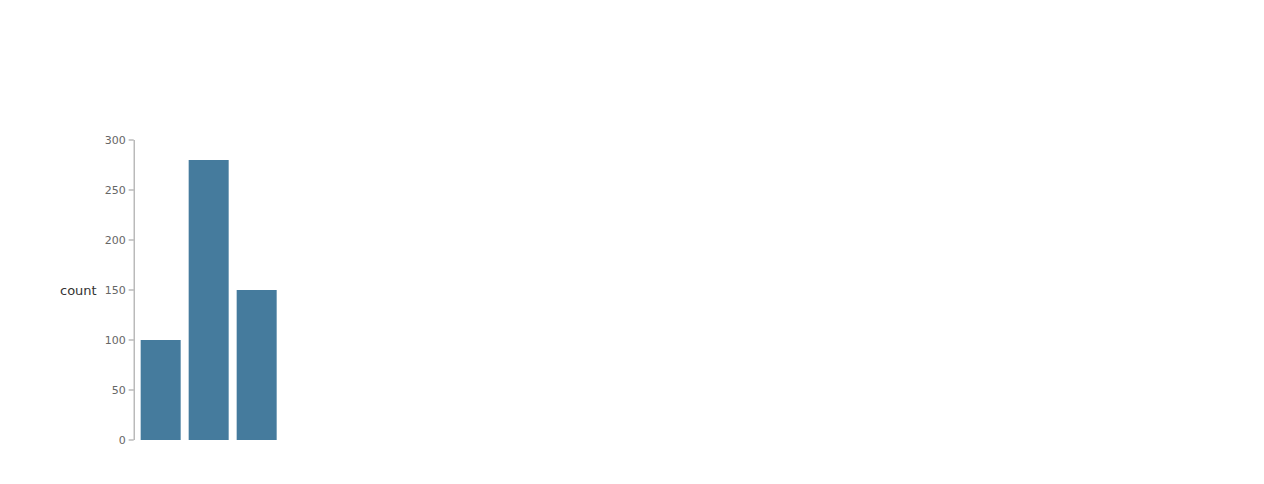
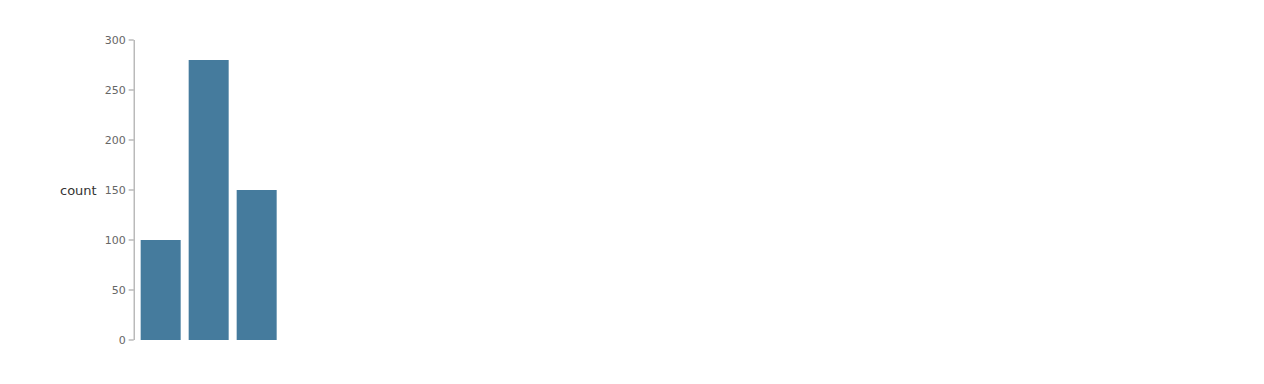
Accept 1 visual diff(s)

diff --git a/dom/low-level-syntax/axes--continuous-yaxis.html b/dom/low-level-syntax/axes--continuous-yaxis.html
@@ -1,9 +1,9 @@
-<svg height="480" width="480" xmlns="http://www.w3.org/2000/svg"><g transform="scale(1, -1) translate(40, -440)"><g transform="translate(0, 0) scale(1, 1)"><g transform="translate(80.6724, 0)"><rect fill="#457b9d" height="100" opacity="1" rx="0" ry="0" stroke="#457b9d" stroke-width="0" transform="scale(1, -1)" width="40" x="0" y="-100"></rect><rect fill="#457b9d" height="280" opacity="1" rx="0" ry="0" stroke="#457b9d" stroke-width="0" transform="scale(1, -1)" width="40" x="48" y="-280"></rect><rect fill="#457b9d" height="150" opacity="1" rx="0" ry="0" stroke="#457b9d" stroke-width="0" transform="scale(1, -1)" width="40" x="96" y="-150"></rect></g><rect fill="#999" height="300" opacity="1" rx="0" ry="0" stroke="#999" stroke-width="0" transform="scale(1, -1)" width="1" x="73.6724" y="-300"></rect><g transform="translate(58.6738, -200)"><text dominant-baseline="auto" fill="#666" font-family="system-ui, sans-serif" font-size="11" stroke-width="0" text-anchor="start" transform="scale(1, -1)" x="0" y="-196.5">0
-</text><rect fill="#999" height="1" opacity="1" rx="0" ry="0" stroke="#999" stroke-width="0" transform="scale(1, -1)" width="5" x="9.9985" y="-200.5"></rect></g><g transform="translate(51.6753, -150)"><text dominant-baseline="auto" fill="#666" font-family="system-ui, sans-serif" font-size="11" stroke-width="0" text-anchor="start" transform="scale(1, -1)" x="0" y="-196.5">50
-</text><rect fill="#999" height="1" opacity="1" rx="0" ry="0" stroke="#999" stroke-width="0" transform="scale(1, -1)" width="5" x="16.9971" y="-200.5"></rect></g><g transform="translate(44.6768, -100)"><text dominant-baseline="auto" fill="#666" font-family="system-ui, sans-serif" font-size="11" stroke-width="0" text-anchor="start" transform="scale(1, -1)" x="0" y="-196.5">100
-</text><rect fill="#999" height="1" opacity="1" rx="0" ry="0" stroke="#999" stroke-width="0" transform="scale(1, -1)" width="5" x="23.9956" y="-200.5"></rect></g><g transform="translate(44.6768, -50)"><text dominant-baseline="auto" fill="#666" font-family="system-ui, sans-serif" font-size="11" stroke-width="0" text-anchor="start" transform="scale(1, -1)" x="0" y="-196.5">150
-</text><rect fill="#999" height="1" opacity="1" rx="0" ry="0" stroke="#999" stroke-width="0" transform="scale(1, -1)" width="5" x="23.9956" y="-200.5"></rect></g><g transform="translate(44.6768, 0)"><text dominant-baseline="auto" fill="#666" font-family="system-ui, sans-serif" font-size="11" stroke-width="0" text-anchor="start" transform="scale(1, -1)" x="0" y="-196.5">200
-</text><rect fill="#999" height="1" opacity="1" rx="0" ry="0" stroke="#999" stroke-width="0" transform="scale(1, -1)" width="5" x="23.9956" y="-200.5"></rect></g><g transform="translate(44.6768, 50)"><text dominant-baseline="auto" fill="#666" font-family="system-ui, sans-serif" font-size="11" stroke-width="0" text-anchor="start" transform="scale(1, -1)" x="0" y="-196.5">250
-</text><rect fill="#999" height="1" opacity="1" rx="0" ry="0" stroke="#999" stroke-width="0" transform="scale(1, -1)" width="5" x="23.9956" y="-200.5"></rect></g><g transform="translate(44.6768, 100)"><text dominant-baseline="auto" fill="#666" font-family="system-ui, sans-serif" font-size="11" stroke-width="0" text-anchor="start" transform="scale(1, -1)" x="0" y="-196.5">300
-</text><rect fill="#999" height="1" opacity="1" rx="0" ry="0" stroke="#999" stroke-width="0" transform="scale(1, -1)" width="5" x="23.9956" y="-200.5"></rect></g><text dominant-baseline="auto" fill="#333" font-family="system-ui, sans-serif" font-size="13" stroke-width="0" text-anchor="start" transform="scale(1, -1)" x="0" y="-145.5">count
+<svg height="380" width="480" xmlns="http://www.w3.org/2000/svg"><g transform="scale(1, -1) translate(40, -340)"><g transform="translate(0, 0) scale(1, 1)"><g transform="translate(80.6724, 0)"><rect fill="#457b9d" height="100" opacity="1" rx="0" ry="0" stroke="#457b9d" stroke-width="0" transform="scale(1, -1)" width="40" x="0" y="-100"></rect><rect fill="#457b9d" height="280" opacity="1" rx="0" ry="0" stroke="#457b9d" stroke-width="0" transform="scale(1, -1)" width="40" x="48" y="-280"></rect><rect fill="#457b9d" height="150" opacity="1" rx="0" ry="0" stroke="#457b9d" stroke-width="0" transform="scale(1, -1)" width="40" x="96" y="-150"></rect></g><rect fill="#999" height="300" opacity="1" rx="0" ry="0" stroke="#999" stroke-width="0" transform="scale(1, -1)" width="1" x="73.6724" y="-300"></rect><g transform="translate(58.6738, -150)"><text dominant-baseline="auto" fill="#666" font-family="system-ui, sans-serif" font-size="11" stroke-width="0" text-anchor="start" transform="scale(1, -1)" x="0" y="-146.5">0
+</text><rect fill="#999" height="1" opacity="1" rx="0" ry="0" stroke="#999" stroke-width="0" transform="scale(1, -1)" width="5" x="9.9985" y="-150.5"></rect></g><g transform="translate(51.6753, -100)"><text dominant-baseline="auto" fill="#666" font-family="system-ui, sans-serif" font-size="11" stroke-width="0" text-anchor="start" transform="scale(1, -1)" x="0" y="-146.5">50
+</text><rect fill="#999" height="1" opacity="1" rx="0" ry="0" stroke="#999" stroke-width="0" transform="scale(1, -1)" width="5" x="16.9971" y="-150.5"></rect></g><g transform="translate(44.6768, -50)"><text dominant-baseline="auto" fill="#666" font-family="system-ui, sans-serif" font-size="11" stroke-width="0" text-anchor="start" transform="scale(1, -1)" x="0" y="-146.5">100
+</text><rect fill="#999" height="1" opacity="1" rx="0" ry="0" stroke="#999" stroke-width="0" transform="scale(1, -1)" width="5" x="23.9956" y="-150.5"></rect></g><g transform="translate(44.6768, 0)"><text dominant-baseline="auto" fill="#666" font-family="system-ui, sans-serif" font-size="11" stroke-width="0" text-anchor="start" transform="scale(1, -1)" x="0" y="-146.5">150
+</text><rect fill="#999" height="1" opacity="1" rx="0" ry="0" stroke="#999" stroke-width="0" transform="scale(1, -1)" width="5" x="23.9956" y="-150.5"></rect></g><g transform="translate(44.6768, 50)"><text dominant-baseline="auto" fill="#666" font-family="system-ui, sans-serif" font-size="11" stroke-width="0" text-anchor="start" transform="scale(1, -1)" x="0" y="-146.5">200
+</text><rect fill="#999" height="1" opacity="1" rx="0" ry="0" stroke="#999" stroke-width="0" transform="scale(1, -1)" width="5" x="23.9956" y="-150.5"></rect></g><g transform="translate(44.6768, 100)"><text dominant-baseline="auto" fill="#666" font-family="system-ui, sans-serif" font-size="11" stroke-width="0" text-anchor="start" transform="scale(1, -1)" x="0" y="-146.5">250
+</text><rect fill="#999" height="1" opacity="1" rx="0" ry="0" stroke="#999" stroke-width="0" transform="scale(1, -1)" width="5" x="23.9956" y="-150.5"></rect></g><g transform="translate(44.6768, 150)"><text dominant-baseline="auto" fill="#666" font-family="system-ui, sans-serif" font-size="11" stroke-width="0" text-anchor="start" transform="scale(1, -1)" x="0" y="-146.5">300
+</text><rect fill="#999" height="1" opacity="1" rx="0" ry="0" stroke="#999" stroke-width="0" transform="scale(1, -1)" width="5" x="23.9956" y="-150.5"></rect></g><text dominant-baseline="auto" fill="#333" font-family="system-ui, sans-serif" font-size="13" stroke-width="0" text-anchor="start" transform="scale(1, -1)" x="0" y="-145.5">count
 </text></g></g></svg>
